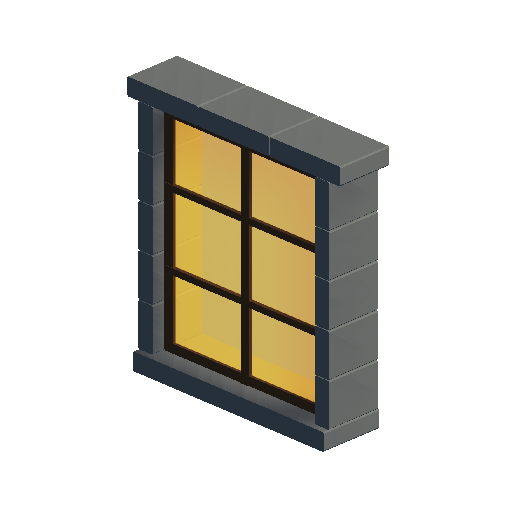
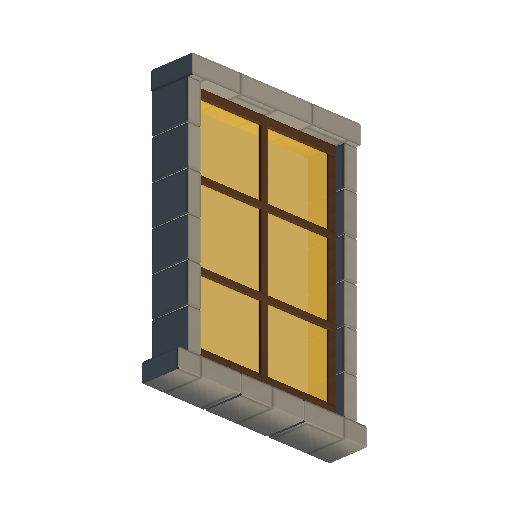
Fix window frame and glazing flicker

Changed region(s): [[0.25, 0.0938, 0.7812, 0.9062]]

diff --git a/test/unit/game/objects/architecture/window/window-visual.test.js b/test/unit/game/objects/architecture/window/window-visual.test.js
@@ -80,6 +80,10 @@ test("window sills overlap masonry without sharing its top plane at every size a
           const railEntity = new pc.Entity(rail.name);
           railEntity.setLocalPosition(...rail.translation);
           visual.addChild(railEntity);
+          const upright = gltf.nodes.find((node) => node.name === "Oak frame upright 1");
+          const uprightEntity = new pc.Entity(upright.name);
+          uprightEntity.setLocalPosition(...upright.translation);
+          visual.addChild(uprightEntity);
           const parent = new pc.Entity();
           Window.addVisual({
             ...pc,
@@ -114,6 +118,18 @@ test("window sills overlap masonry without sharing its top plane at every size a
           assert.equal(position.y, 3);
           assert.ok(Math.abs(position.y + scale.y - (3 + height)) < 1e-7);
           assert.equal(scale.x, 0.5);
+          const railFront = (railEntity.getLocalPosition().z + railBounds.max[2]) * scale.z;
+          const uprightBounds = gltf.accessors[gltf.meshes[upright.mesh].primitives[0].attributes.POSITION];
+          const uprightFront = (uprightEntity.getLocalPosition().z + uprightBounds.max[2]) * scale.z;
+          assert.ok(Math.abs(railFront - uprightFront) > 0.0019, `${variant}/${height}: timber joint faces stay separated`);
+          const uprightOuter = (uprightEntity.getLocalPosition().x + uprightBounds.max[0] * uprightEntity.getLocalScale().x) * scale.x;
+          assert.ok(uprightOuter > scale.x / 2 + 0.0039, `${variant}/${height}: upright extends beyond the wall's 2mm clearance`);
+          const railOuter = railBounds.max[0] * railEntity.getLocalScale().x * scale.x;
+          assert.ok(railOuter > scale.x / 2 + 0.0039, `${variant}/${height}: rail ends extend into jambs`);
+          const uprightTop = (uprightEntity.getLocalPosition().y + uprightBounds.max[1] * uprightEntity.getLocalScale().y) * scale.y;
+          const uprightBottom = (uprightEntity.getLocalPosition().y + uprightBounds.min[1] * uprightEntity.getLocalScale().y) * scale.y;
+          assert.ok(uprightTop > height + 0.0039, `${variant}/${height}: upright extends into lintel`);
+          assert.ok(uprightBottom < -0.0039, `${variant}/${height}: upright extends into sill`);
           parent.destroy();
         }
       }
@@ -157,4 +173,51 @@ test("open windows retain the surround and remove glazing and internal dividers"
   assert.ok(visual.findByName("Projecting stone sill"));
   assert.ok(visual.findByName("Oak frame rail -1"));
   parent.destroy();
+});
+
+test("glazing stays between the front and back of every timber joint", () => {
+  class TestEntity extends pc.Entity {
+    addComponent() {}
+  }
+  for (const variant of ["room", "hall", "slit"]) {
+    const data = readFileSync(new URL(`../../../../../../src/game/models/castle/windows/${variant}-window.glb`, import.meta.url));
+    const gltf = JSON.parse(data.subarray(20, 20 + data.readUInt32LE(12)).toString());
+    for (const depth of [0.25, 0.3, 0.75]) {
+      const app = { _entityIndex: {} };
+      const visual = new pc.Entity("Glazing", app);
+      for (const node of gltf.nodes) {
+        const entity = new pc.Entity(node.name, app);
+        entity.setLocalPosition(...node.translation);
+        visual.addChild(entity);
+      }
+      const parent = new pc.Entity();
+      Window.addVisual({
+        ...pc,
+        Entity: TestEntity,
+      }, { instantiate: () => visual }, parent, {
+        from: {
+          x: 0,
+          y: 0,
+          z: 0,
+        },
+        to: {
+          x: 1,
+          y: 1.5,
+          z: 0,
+        },
+        depth,
+        variant,
+      });
+      const pane = visual.findByName("Amber glass pane 0 0");
+      const sourcePane = gltf.nodes.find(node => node.name === "Amber glass pane 0 0");
+      const paneBounds = gltf.accessors[gltf.meshes[sourcePane.mesh].primitives[0].attributes.POSITION];
+      for (const node of gltf.nodes.filter(node => /^(Oak frame |Central oak mullion|Fine oak transom)/.test(node.name))) {
+        const timber = visual.find(entity => entity.name.startsWith(node.name.startsWith("Fine oak transom") ? "Fine oak transom" : node.name))[0];
+        const bounds = gltf.accessors[gltf.meshes[node.mesh].primitives[0].attributes.POSITION];
+        assert.ok(pane.getLocalPosition().z + paneBounds.min[2] > timber.getLocalPosition().z + bounds.min[2], `${variant}/${depth}/${node.name}: glass stays ahead of inner timber face`);
+        assert.ok(pane.getLocalPosition().z + paneBounds.max[2] < timber.getLocalPosition().z + bounds.max[2], `${variant}/${depth}/${node.name}: glass stays behind outer timber face`);
+      }
+      parent.destroy();
+    }
+  }
 });

diff --git a/src/game/objects/architecture/window/Window.js b/src/game/objects/architecture/window/Window.js
@@ -81,6 +81,22 @@ export class Window {
       window.position.y, window.position.z + Math.cos(angle) * 0.004);
     visual.setLocalEulerAngles(0, window.yaw, 0);
     visual.setLocalScale(window.width, window.height, window.depth);
+    // Timber joints must overlap in depth instead of sharing front/back faces.
+    // The rails cross the uprights, and the transoms cross the mullions.
+    for (const node of visual.find(Window.#findHorizontalTimber)) {
+      const position = node.getLocalPosition();
+      const scale = node.getLocalScale();
+      node.setLocalPosition(position.x, position.y, position.z + 0.002 / window.depth);
+      node.setLocalScale(scale.x * (1 + 0.008 / window.width), scale.y, scale.z);
+    }
+    for (const node of visual.find(Window.#findVerticalTimber)) {
+      const scale = node.getLocalScale();
+      node.setLocalScale(scale.x, scale.y * (1 + 0.008 / window.height), scale.z);
+    }
+    // Bury the outside of each upright in the jamb rather than leaving the
+    // timber side exactly coplanar with the stone aperture face.
+    Window.#fitUpright(visual, window.width, -1);
+    Window.#fitUpright(visual, window.width, 1);
     // The sill overlaps the masonry below the aperture. Separate its top from
     // the wall's horizontal cut face to prevent z-fighting as the camera moves.
     // Correct for parent scaling so the clearance stays two millimetres.
@@ -150,5 +166,35 @@ export class Window {
    */
   static #findNode(node) {
     return /^(Amber glass pane |Fine oak transom |Central oak mullion)/.test(node.name);
+  }
+
+  /**
+   * @param {import("playcanvas").Entity} visual
+   * @param {number} width
+   * @param {number} side
+   */
+  static #fitUpright(visual, width, side) {
+    const upright = visual.findByName(`Oak frame upright ${side}`);
+    if (upright) {
+      const position = upright.getLocalPosition();
+      const scale = upright.getLocalScale();
+      upright.setLocalPosition(position.x + side * 0.002 / width, position.y, position.z);
+      upright.setLocalScale(scale.x * (1 + 0.004 / (0.052 * width)), scale.y, scale.z);
+    }
+  }
+  /**
+   * @param {import("playcanvas").GraphNode} node
+   * @returns {boolean}
+   */
+  static #findHorizontalTimber(node) {
+    return /^(Oak frame rail |Fine oak transom )/.test(node.name);
+  }
+
+  /**
+   * @param {import("playcanvas").GraphNode} node
+   * @returns {boolean}
+   */
+  static #findVerticalTimber(node) {
+    return /^(Oak frame upright |Central oak mullion)/.test(node.name);
   }
 }

diff --git a/src/game/objects/architecture/window/WindowModules.js b/src/game/objects/architecture/window/WindowModules.js
@@ -20,12 +20,19 @@ export class WindowModules {
       for (let row = 0; row < rows; row++) {
         const copy = pane.clone();
         copy.name = `Amber glass pane ${column} ${row}`;
-        // Seat the glazing inside the timber depth. The imported panes sit
-        // behind the dividers, exposing a slit when viewed obliquely.
+        // Keep both faces of the glazing inside the timber depth, including
+        // the rails' joint offset. A pane protruding behind the timber draws
+        // amber over its inner face when viewed from inside the room.
         copy.setLocalPosition(-0.5 + (column + 0.5) / columns,
-          (row + 0.5) / rows, pane.getLocalPosition().z + 0.035);
+          (row + 0.5) / rows, pane.getLocalPosition().z + 0.06);
         const scale = pane.getLocalScale();
         copy.setLocalScale(scale.x * sourceColumns / columns, scale.y * sourceRows / rows, scale.z);
+        // Translucent, emissive glazing must not behave like an opaque shadow
+        // caster. Its two close faces otherwise shadow one another and the oak.
+        for (const render of copy.findComponents("render")) {
+          render.castShadows = false;
+          render.receiveShadows = false;
+        }
         pane.parent.addChild(copy);
       }
     }
